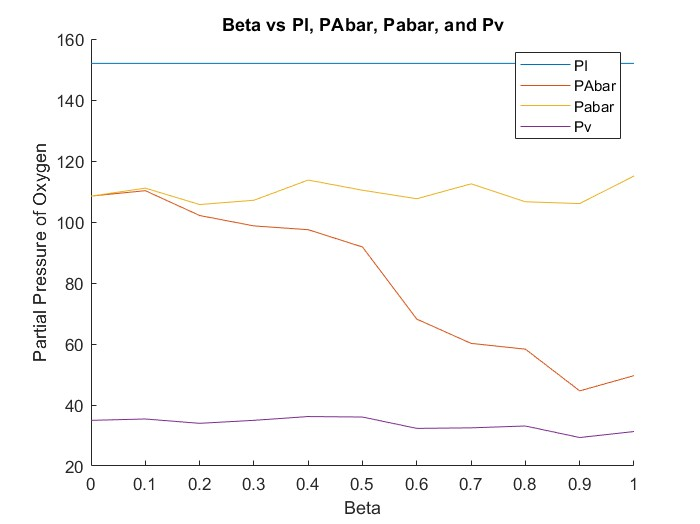
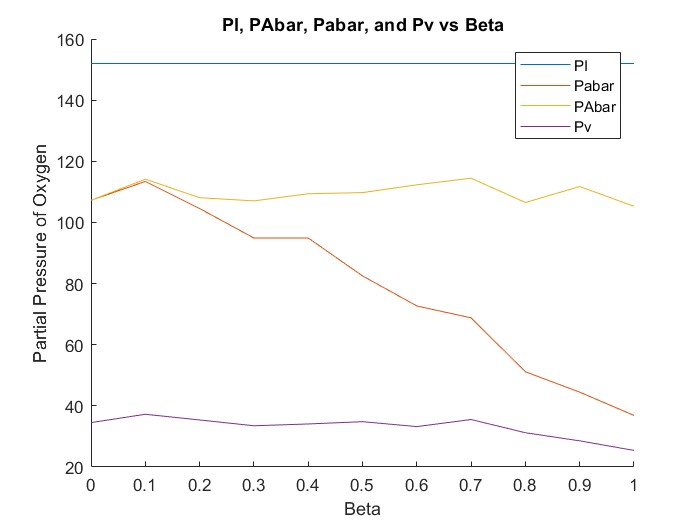
Task 3 (v2)
- Fixed title and legend for the plot in Task 3

diff --git a/lung.m b/lung.m
@@ -30,7 +30,7 @@ plot(betaRange,PIRange)
 plot(betaRange,PabarRange)
 plot(betaRange,PAbarRange)
 plot(betaRange,PvRange)
-legend('PI', 'PAbar', 'Pabar', 'Pv')
-title('Beta vs PI, PAbar, Pabar, and Pv')
+legend('PI', 'Pabar', 'PAbar', 'Pv')
+title('PI, PAbar, Pabar, and Pv vs Beta')
 xlabel('Beta')
 ylabel('Partial Pressure of Oxygen')
